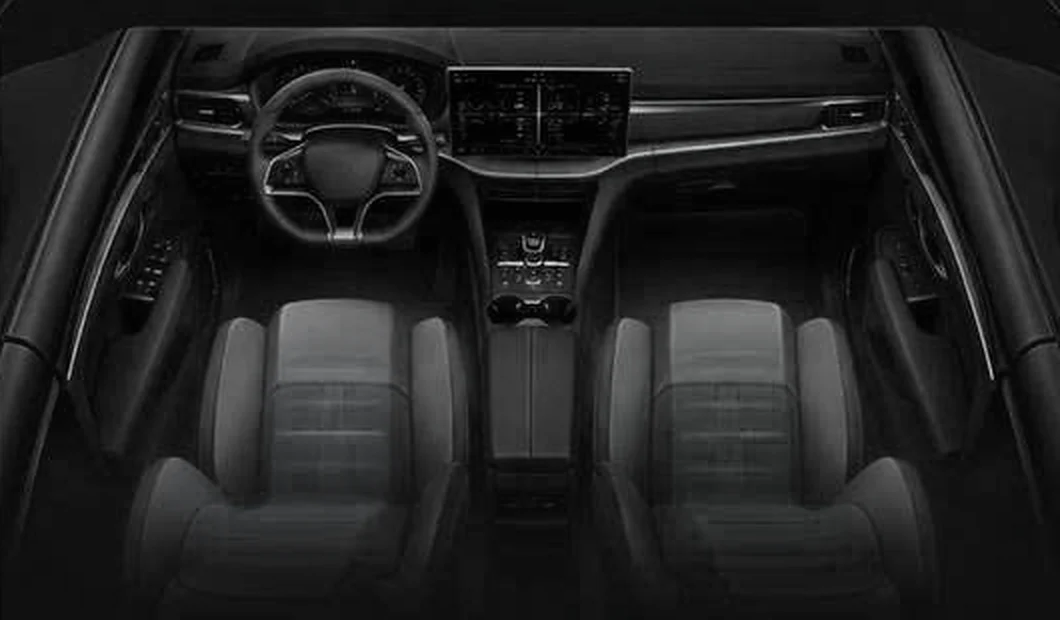
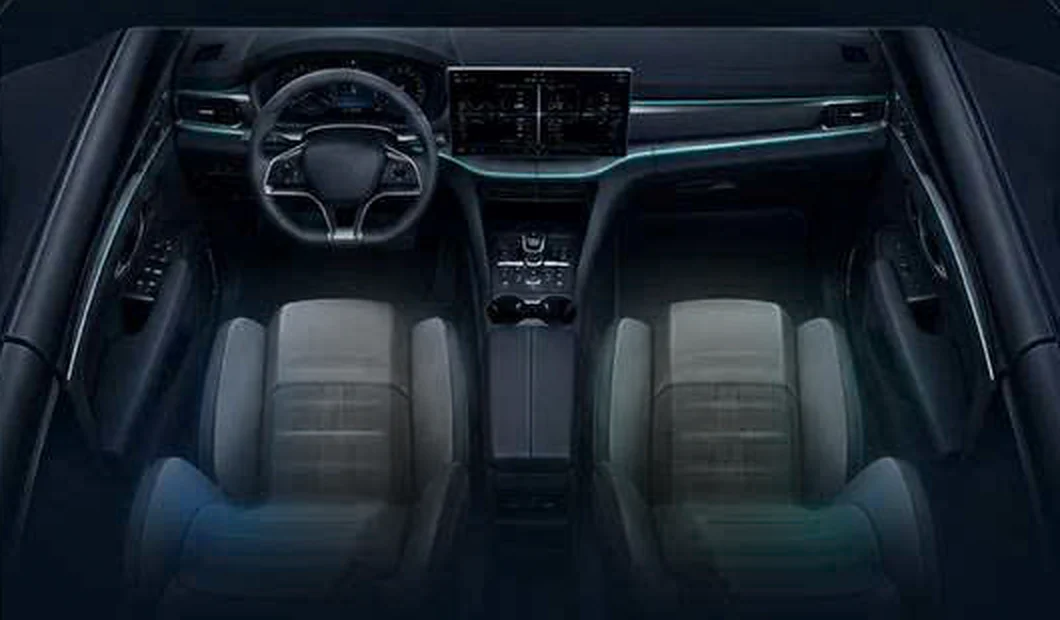
Fix the cabin image: keep its colour, neutralise only the seats
The previous extraction desaturated the WHOLE image to strip the baked-in seat
glow, which also killed the cabin's teal ambient lighting and left a flat grey
photo. Now an elliptical alpha mask desaturates only the two seat areas, so the
dash light strip and blue cabin tone survive.

Also strengthened the state glow (0.6 low / 0.95 high, tighter falloff) and
corrected the seat centres to the measured positions, so it reads as
illuminated upholstery rather than a faint wash.

diff --git a/src/components/SeatVisual.tsx b/src/components/SeatVisual.tsx
@@ -12,20 +12,25 @@ import { useState } from 'preact/hooks'
 const COOL = '74, 168, 255'
 const HEAT = '255, 106, 74'
 
-// Seat centres as a % of the image, measured off the artwork.
+// Seat centres as a % of the image, measured off the artwork (the seats sit at
+// x≈180/355 of 530 and y≈208 of 310).
 const SEATS = {
-  driver: { x: 29, y: 70 },
-  passenger: { x: 70, y: 70 },
+  driver: { x: 34, y: 67 },
+  passenger: { x: 67, y: 67 },
 }
 
 function glowStyle(heat: number, cool: number, pos: { x: number; y: number }) {
   const rgb = heat > 0 ? HEAT : cool > 0 ? COOL : null
   if (!rgb) return { opacity: 0 }
   const level = heat > 0 ? heat : cool
-  const a = level >= 2 ? 0.62 : 0.34
+  // Strong enough to read as illuminated upholstery, like the reference.
+  const a = level >= 2 ? 0.95 : 0.6
   return {
     opacity: 1,
-    background: `radial-gradient(ellipse 20% 30% at ${pos.x}% ${pos.y}%, rgba(${rgb}, ${a}) 0%, rgba(${rgb}, ${a * 0.5}) 45%, rgba(${rgb}, 0) 72%)`,
+    background:
+      `radial-gradient(ellipse 13% 26% at ${pos.x}% ${pos.y}%, ` +
+      `rgba(${rgb}, ${a}) 0%, rgba(${rgb}, ${a * 0.75}) 40%, ` +
+      `rgba(${rgb}, ${a * 0.3}) 70%, rgba(${rgb}, 0) 100%)`,
   }
 }
 
